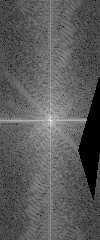
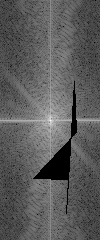
练习2

Changed region(s): [[0.78, 0.3208, 1.0, 0.8458], [0.33, 0.3208, 0.78, 0.9042]]

diff --git a/compression/compression.cpp b/compression/compression.cpp
@@ -6,8 +6,8 @@
 using namespace cv;
 using namespace std;
 
-//练习1
-//鼠标响应函数
+//练习2
+//dft
 std::vector<Point>  mousePoints;
 Point points;
 
